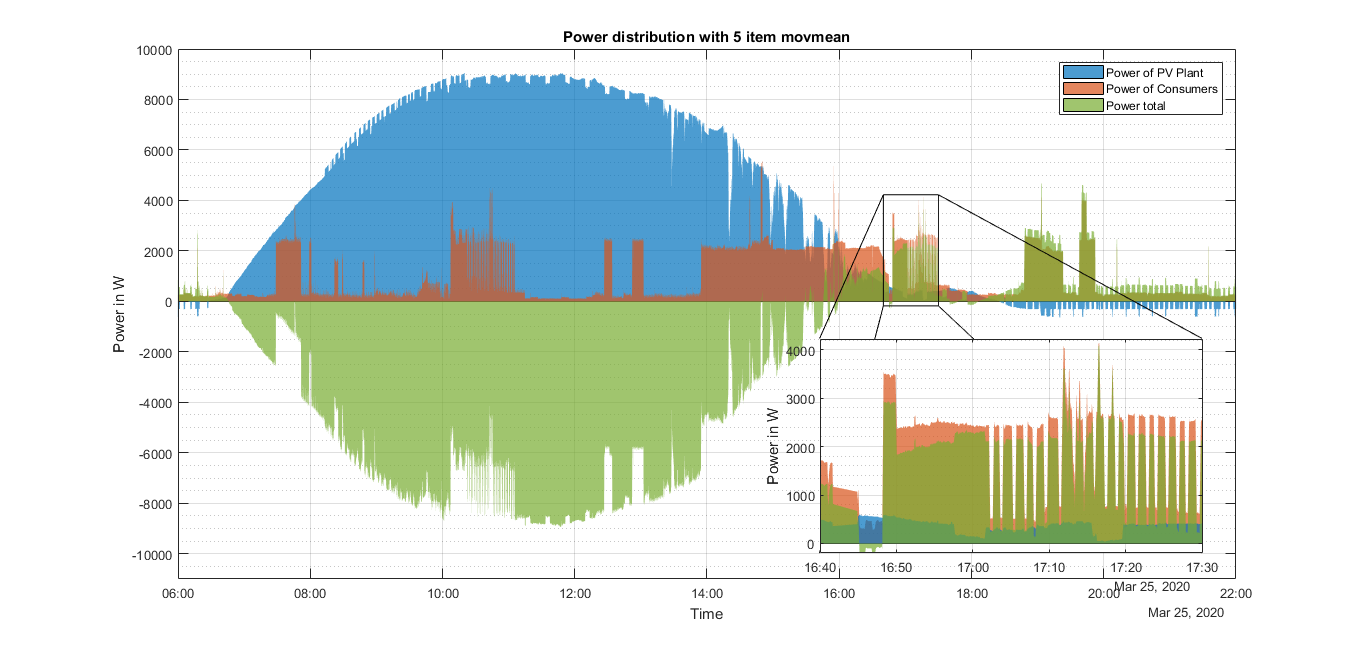
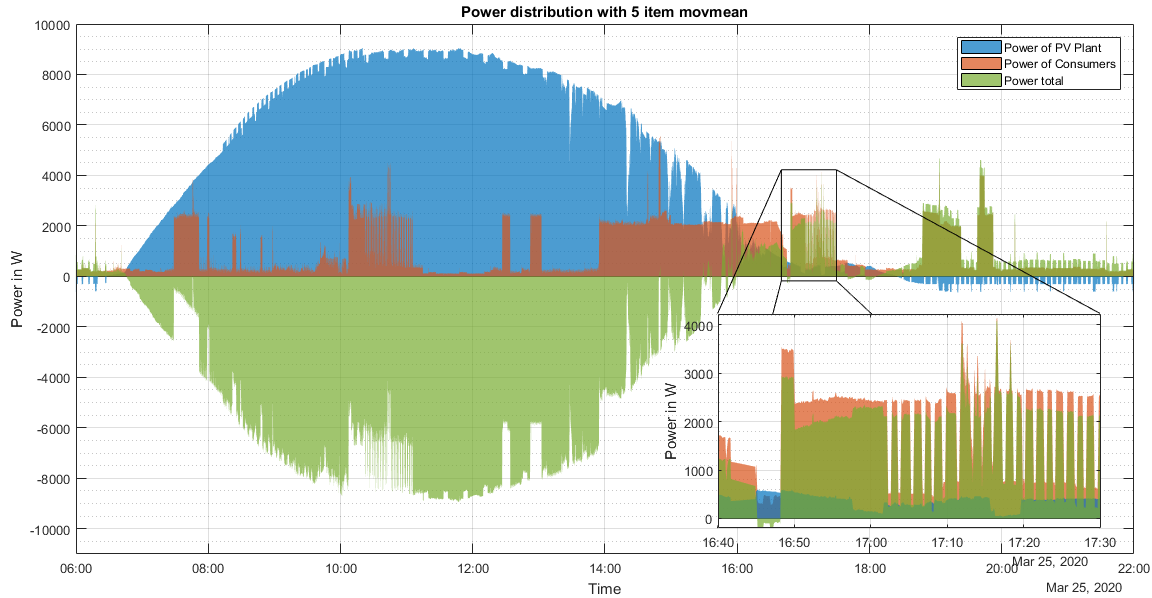
ch: readme and plot

diff --git a/README.md b/README.md
@@ -3,7 +3,18 @@
 This Project is a continuation of the first version available [here](https://github.com/VinFar/SML-Reader-STM32F0).
 
 # Introduction
-This Repo is about a system for reading out the upcoming electrical [SmartMeter](https://discovergy.com/blog/was-ist-ein-smart-meter) 
+This Repo is about a system for reading out the upcoming electrical [SmartMeter](https://discovergy.com/blog/was-ist-ein-smart-meter)
+
+The MATLAB Plot below shows a example of the Data that can be generated with this system.
+<br/>It shows three different plots:
+- The blue area is the electricity generated by a 10kW PV plant
+- The orange area is the electricity used by the household
+- The green area is the amount of electricity which is put into the grid
+
+The interval for saving the data was set to two seconds and thus it is possible to detect different consumer, like a **bread baking machine** that is shown in the zoomed area.
+
+<img src="MatlabPlot.png" width="100%"/>
+
 
 # Hardware
 The system consists of three different PCBs (or units as labeled in the development). The following list is a briefly description of these units:
